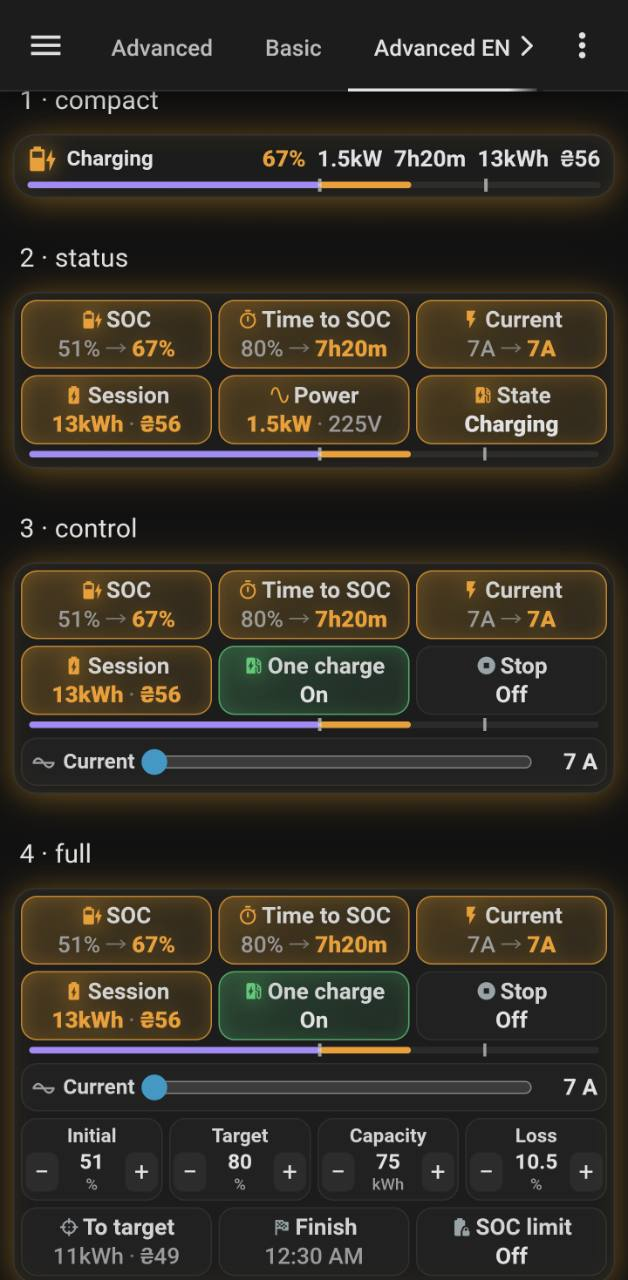
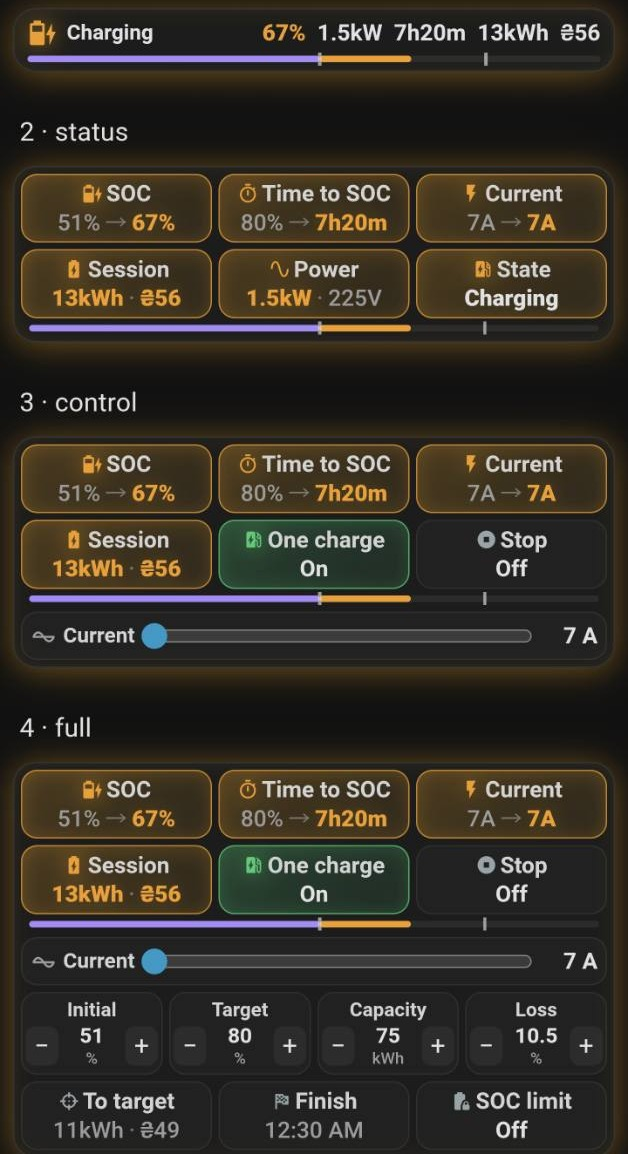
Crop Home Assistant header from card screenshots; refresh Ukrainian README images; changelog keeps English only

diff --git a/CHANGELOG.md b/CHANGELOG.md
@@ -6,13 +6,8 @@
 - **More readable dashboard cards in less space.** Larger centred labels and values, tighter spacing and wrapping keep every reading visible on narrow cards. Charging adds brighter pulses and moving highlights without restarting the animation as readings update; the SOC bar now distinguishes the charge present at the start from energy added during the session and respects reduced-motion preferences.
 
   <p>
-    <img alt="Eveus card — Advanced mode" src="docs/images/card-advanced.jpg" width="49%">
-    <img alt="Eveus card — Basic mode" src="docs/images/card-basic.jpg" width="49%">
-  </p>
-
-  <p>
-    <img alt="Eveus card — Advanced mode, English" src="docs/images/card-advanced-en.jpg" width="49%">
-    <img alt="Eveus card — Basic mode, English" src="docs/images/card-basic-en.jpg" width="49%">
+    <img alt="Eveus card — Advanced mode" src="docs/images/card-advanced-en.jpg" width="49%">
+    <img alt="Eveus card — Basic mode" src="docs/images/card-basic-en.jpg" width="49%">
   </p>
 
 ## 4.23.0 - 2026-09-19
